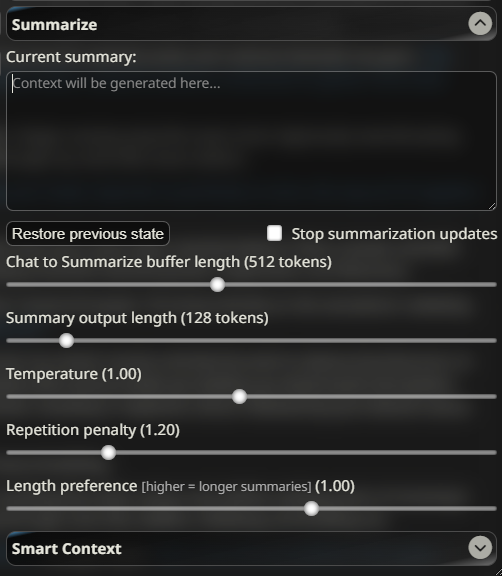
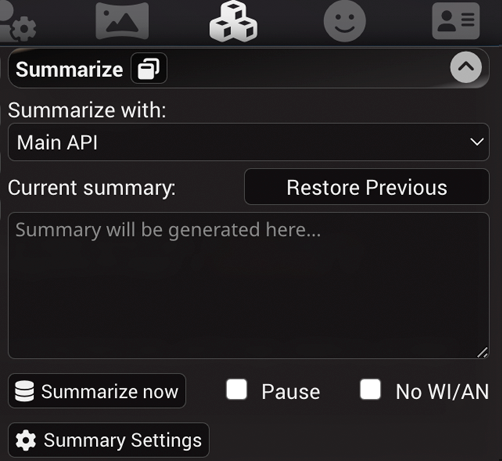
Rewrite summarize doc

diff --git a/Extras/extensions/Summarize.md b/Extras/extensions/Summarize.md
@@ -1,52 +1,101 @@
 # Summarize
 
-### What is it?
+## What is it?
 
-After the AI sends back a message, the Summarize extension looks through the chat history and then uses an AI summarization model that runs on the Extras host machine to create a dynamic summary of events. This summary is then sent along with every user input afterward.
+This extension allows you to create, store, and utilize automatically generated summaries based on the events happening in your chats. Summarization can help with outlining general details of what is happening in the story, which *could* be interpreted as a long-term memory, but take that statement with a grain of salt. Since the summaries are generated by language models, the outputs may lose some important details or contain hallucinations, so you're always advised to keep track of the summary state and correct it manually if needed.
 
-### How is that useful?
+## Common configuration
 
-Summarize helps the AI remain aware of the general developments of a long chat.
+The summarization extension is installed in SillyTavern by default, thus it will show up in ST's Extensions panel (stacked cubes icon) list like this:
 
-***
+![Summarize Config Panel](/static/extensions/summarize.png)
 
-### Setup Instructions
+- **Current summary** - displays and provides an ability to modify the current summary. The summary is updated and embedded into the chat file's metadata for the message that was the last in context when the summary was generated. Deleting or editing a message from the chat that has a summary attached to it, will revert the state to the last valid summary.
+- **Restore Previous** - removes the current summary, rolling it back to the previous state. This is useful if the summarizer does a poor job at any given point.
+- **Pause** - check this to prevent the summary from being automatically updated. This is useful if you want to provide a custom summary of your own or to effectively disable the summary by clearing the box and stopping updates.
+- **Popup window** - allows to detach the summary into a movable UI panel on the sidebar. Useful for the desktop layout to easily have access to summarization settings without having to navigate through the extensions menu.
 
-*Summarize **requires** the Extras server to run. It has no offline mode.*
+## Supported summary sources
+
+### Main API
+
+Summarization will be powered by your currently selected AI backend, model and settings. This method requires no additional setup, just a working API connection.
+
+This option has the following sub-modes that differ depending on how the summary prompt is built:
+
+1. Raw, blocking. The summary will be generated using nothing but the summarization prompt and the chat history. Subsequent prompts will also include the previous summary with messages that were sent after the summary was generated (see example). This mode can (and will) generate prompts that have a lot of variability between them, so it is not recommended to use it with backends that have slow prompt processing times, such as llama.cpp and its derivatives.
+2. Raw, non-blocking. Same as above, but the chat generation will not be blocked during the summary generation. Not every backend supports simultaneous requests, so switch to blocking mode if summarization fails.
+3. Classic, blocking. The summarization prompt will be sent at the end of your usual generation prompt, as a neutral system instruction, not omitting the character card, main prompt, example dialogues and other parts of chat prompts. This usually results in prompts that play nicely with reusing processed prompts, so it is recommended to use with llama.cpp and its siblings.
+
+#### Summary Settings explained
+
+1. **Summary Prompt** - defines the prompt that will used for creating a summary. May include any of the known macros, as well as a special \{\{words\}\} macro (see below).
+2. **Target summary length (words)** - defines the value of the \{\{words\}\} macro that can be inserted into the Summary Prompt. This setting is completely optional and has no effect at all if the macro is not used.
+3. **API response length (tokens)** - allows to set an override API response length for generating summaries that are different from the globally set value.
+4. **Max messages per request _(raw modes only)_** - set to limit the maximum number of messages that will be included in one summarization prompt. `0` means no explicit limitation, but the resulting number of messages to summarize will still depend on the maximum context size, calculated using the formula: `max summary buffer = context size - summarization prompt - previous summary - response length`. Use this when you want to get more focused summaries on models with large context sizes.
+5 **No WI/AN** - omit World Info and Author's Note from text to be summarized. Only has an effect when using the Classic prompt builder. The Raw prompt builder always omits WI/AN.
+6. **Update every X messages** - sets the interval at which the summary is generated. `0` means that the automatic summarization is disabled, but you can still trigger it manually by clicking the "Summarize now" button. This should be adjusted based on how quickly the prompt buffer entirely fills with chat messages. Ideally, you'd want to have the first summary generated when the messages are starting to get dropped out of the prompt.
+7. **Update every X words** - same as above, but using words (not tokens!) instead of messages, theoretically can be a more accurate measurement due to how unpredictable the contents of chat messages usually are, but your mileage may vary.
+
+If both "Update every" sliders are set to a non-zero value, then both will trigger summary updates at their respective intervals, depending on what happens first.
+
+If you're unsure about the interval settings, you can click the "magic wand" button above the "Update every" sliders to try and guess the optimal values based on some simple heuristics. A brief description of the algorithm is as follows:
+
+1. Calculate token and word counts for all chat messages
+2. Determine target summary length based on desired prompt words
+3. Calculate the maximum number of messages that can fit in the prompt based on the average message length
+4. If "Max messages" is set, adjust the average to account for messages that don't fit the summary limit
+5. Round down the adjusted average messages per prompt to a multiple of 5
+
+#### Example prompts
+
+**Raw prompt**
+```
+System:
+[Summarization prompt]
+
+Previous summary.
+
+User:
+Message foo.
+
+Char:
+Message bar.
+```
+
+**Classic prompt**
+```
+[Main prompt]
+
+[Character card]
+
+[Example dialogues]
+
+User:
+Message foo.
+
+Char:
+Message bar.
+
+System:
+[Summarization prompt]
+```
+
+### Extras API
+
+Extras server with the `summarize` module could run an auxiliary summarization model (BART).
+
+It has a very small context size (~1024 tokens), so its ability to handle large summaries is quite limited.
+
+To configure the Extras summary source, do the following:
 
 1. Install or Update [Extras](https://github.com/SillyTavern/SillyTavern-extras) to the latest version.
 2. Run Extras with the `summarize` module enabled: `python server.py --enable-modules=summarize`
 
-***
-
-### Configuration
-
-Once Summarize is enabled, it will show up in ST's Extensions panel list.
-![STExtensionMenuIcon](/static/extensions/menu-icon.png)
-
-![Summarize Config Panel](/static/extensions/summarize.png)
-
-- **Summary Contents Box** - this displays the current summary. The summary is updated and embedded into the chat file's metadata for every message received from the AI.
-- **Restore Previous State** - Replaces the current summary with the summary from the previous message. This is useful if the summarizer does a poor job at any given point.
-- **Stop Summarization Updates checkbox** - check this to prevent the summary from being automatically updated. This is useful if you want to provide a custom summary of your own or to effectively disable the summary by clearing the box and stopping updates.
-- **Chat to Summarize buffer length** - This is the amount of chat context to be summarized, including the previous message's summary. Limited to 1024 tokens.
-- **Summary Output Length** - The desired total length of the finished summary (what you see in the box). The summary will not always match this length, but the model will be encouraged to write enough to fill it.
-- **Temperature** - determines how creative the summary model is in writing the summary. Higher values will produce more variation in the summary, at potential risk of inaccuracy.
-- **Repetition Penalty** - high numbers here will help reduce the amount of repetitious phrases in the summary. 1.15-1.2 are good values.
-- **Length Preference** - values below `1` will pressure the AI to create shorter summaries, and values over `1` will incentivize the AI to create longer summaries.
-
-### Changing Summary Model
+#### Changing Summary Model
 
 By default, Summarize uses the [Qiliang/bart-large-cnn-samsum-ChatGPT_v3](https://huggingface.co/Qiliang/bart-large-cnn-samsum-ChatGPT_v3) model for summarization purposes.
 
 This can be changed by using the command line argument `--summarization-model=(###Hugging-Face-Model-URL-Here###)`
 
 A known alternate Summarize model is `Qiliang/bart-large-cnn-samsum-ElectrifAi_v10`.
-
-***
-
-### Usage Notes
-
-1. Summary does not begin working until the chat has continued long enough that all chat messages are no longer able to fit into the context window.
-2. Summaries are saved individually as metadata for each message in the chat file.
-3. Deleting a message from the chat will effectively remove its summary as well.
